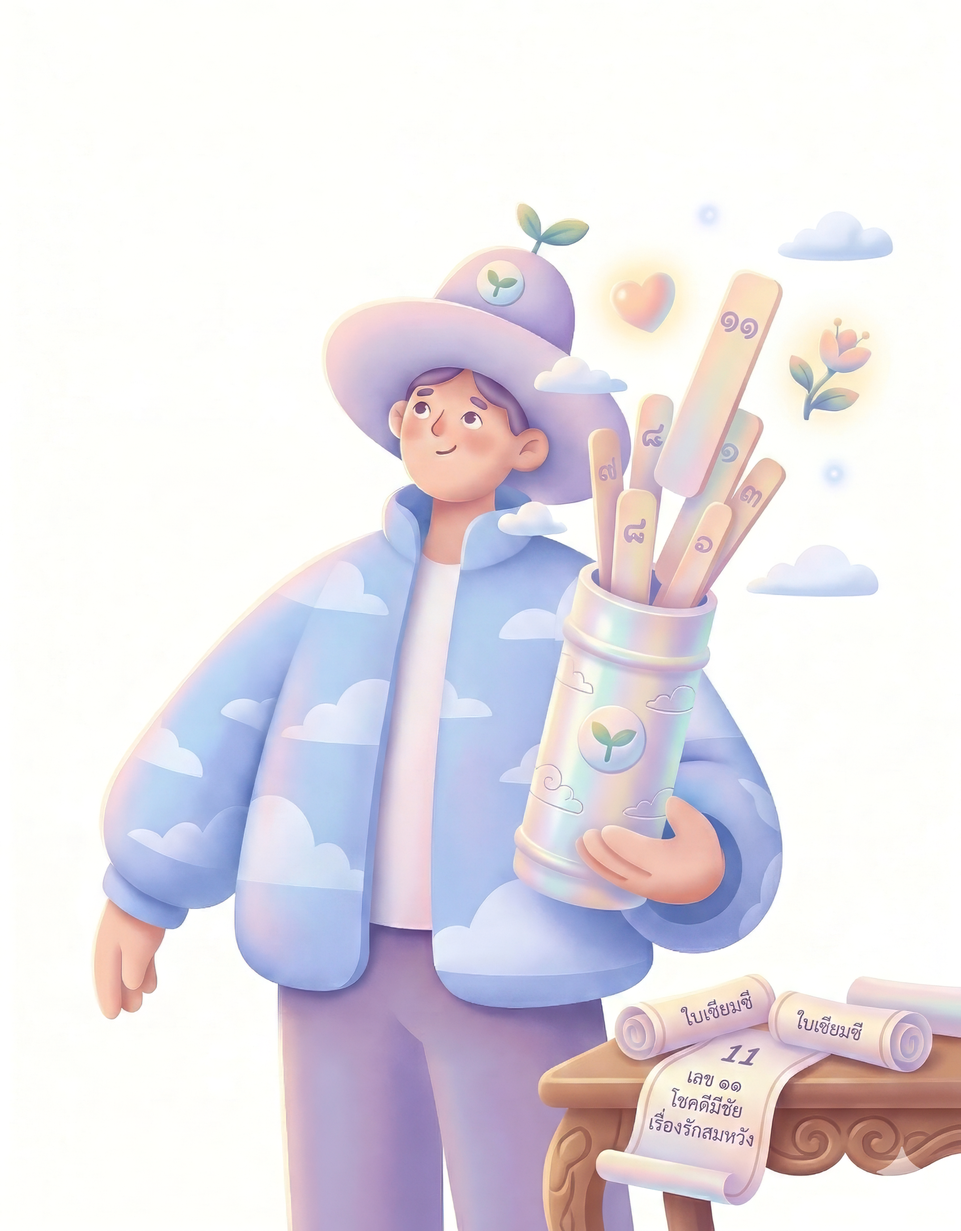
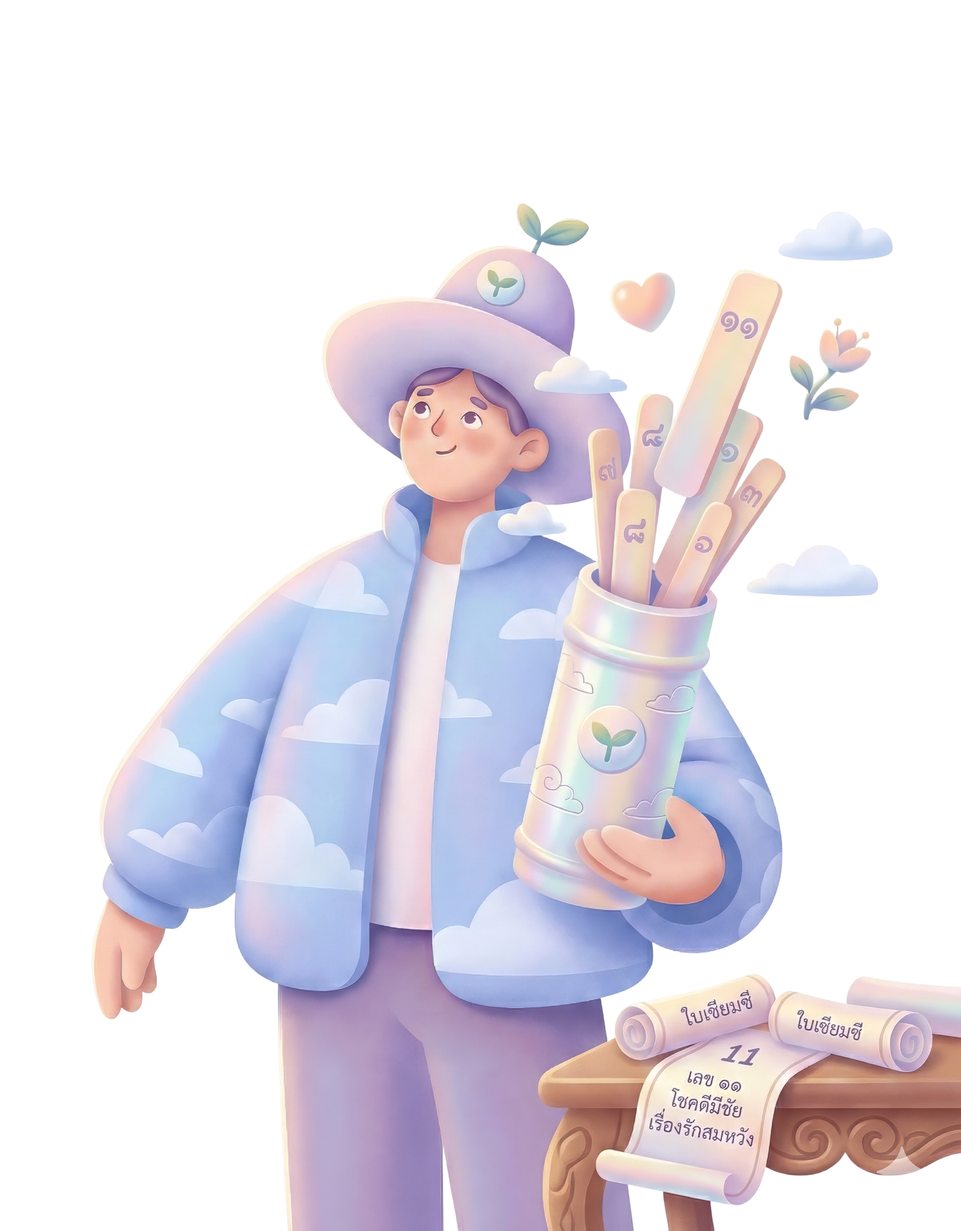
style: enlarge detail slide visuals — Character ชิดขวาล่าง, Card-Hand ปรับตำแหน่ง

diff --git a/Slide/dailymu-slide.html b/Slide/dailymu-slide.html
@@ -4138,8 +4138,8 @@
         </div>
       </div>
 
-      <div class="col-visual">
-        <img src="Images/Week02/Asset/Card-Hand.png" alt="Tarot Cards" style="max-height:50vh;filter:drop-shadow(0 8px 24px rgba(0,0,0,0.08));">
+      <div class="col-visual" style="position:absolute;bottom:calc(-8% - 100px);right:calc(-3% + 460px);width:50%;height:90%;display:flex;align-items:flex-end;justify-content:flex-end;overflow:visible;">
+        <img src="Images/Week02/Asset/Card-Hand.png" alt="Tarot Cards" style="height:85%;max-height:none;object-fit:contain;filter:drop-shadow(0 12px 40px rgba(0,0,0,0.10));transform-origin:bottom right;">
       </div>
     </div>
   </div>
@@ -4214,8 +4214,8 @@
         </div>
       </div>
 
-      <div class="col-visual">
-        <img src="Images/Week02/Asset/DailyMu_Character_FortuneSticks.png" alt="Fortune Sticks" style="max-height:45vh;filter:drop-shadow(0 8px 24px rgba(0,0,0,0.08));">
+      <div class="col-visual" style="position:absolute;bottom:-8%;right:-5%;width:55%;height:110%;display:flex;align-items:flex-end;justify-content:flex-end;overflow:visible;">
+        <img src="../Preview/siam-si/MicroService_FortuneSticks_Character.png" alt="Fortune Sticks Character" style="height:110%;max-height:none;object-fit:contain;filter:drop-shadow(0 12px 40px rgba(0,0,0,0.10));transform-origin:bottom right;">
       </div>
     </div>
   </div>
